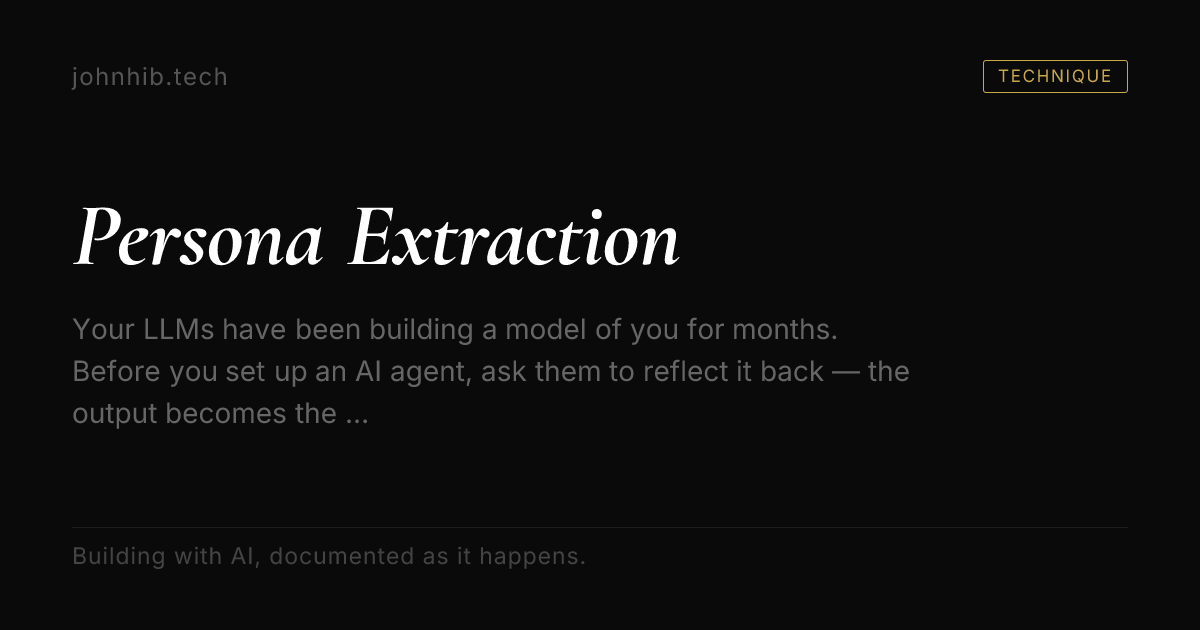
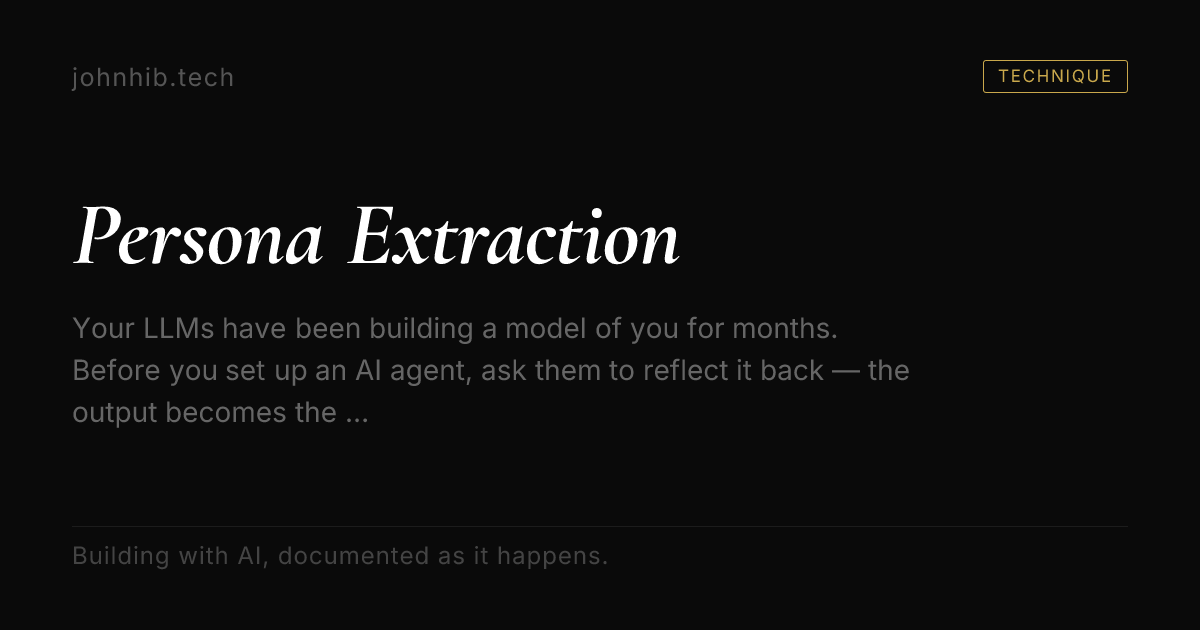
og: bump domain label 24->25px, footer tagline 23->24px (+5%)

diff --git a/TOOLS.md b/TOOLS.md
@@ -38,6 +38,16 @@ Things like:
 - **Style note:** John is drawn to documentary narration (Attenborough-style) — warm, measured, authoritative tone preferred
 - Configured under `messages.tts` in `openclaw.json`
 
+## iMessage Link Formatting
+
+**Never use markdown link syntax `[text](url)` in iMessage** — the parentheses appear as literal characters and break the URL.
+
+Rules for iMessage:
+- Always use bare URLs: `https://example.com` (not `[click here](https://example.com)`)
+- Put URLs on their own line, or leave a clear space after them
+- No trailing punctuation (period, comma, etc.) immediately after a URL
+- No `<>` angle brackets (that's a Discord-only trick to suppress embeds)
+
 ## iMessage Media Workaround
 
 The `message` tool's `filePath` param has an internal allowed-directory check that rejects workspace paths (likely a path normalization issue with the trailing `.` in our workspace dir). **Use `imsg send --file` via `exec` instead:**

diff --git a/AGENTS.md b/AGENTS.md
@@ -133,6 +133,7 @@ Skills provide your tools. When you need one, check its `SKILL.md`. Keep local n
 - **Discord/WhatsApp:** No markdown tables! Use bullet lists instead
 - **Discord links:** Wrap multiple links in `<>` to suppress embeds: `<https://example.com>`
 - **WhatsApp:** No headers — use **bold** or CAPS for emphasis
+- **iMessage:** NO markdown at all — no backticks, no `**bold**`, no `_italics_`. Plain text only. URLs must be bare (never wrapped in backticks or any other characters). Use plain dashes or arrows for structure if needed.
 
 ## 💓 Heartbeats - Be Proactive!
 
